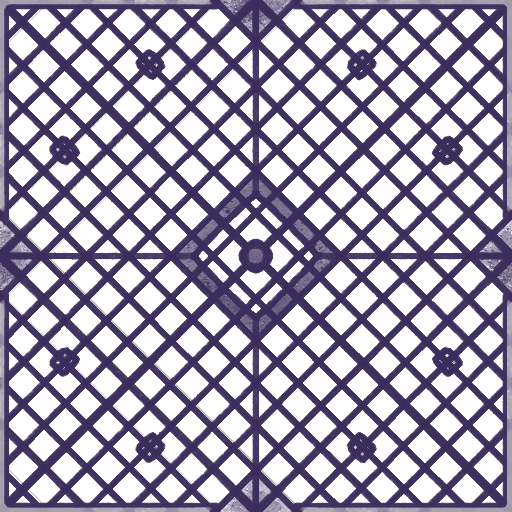
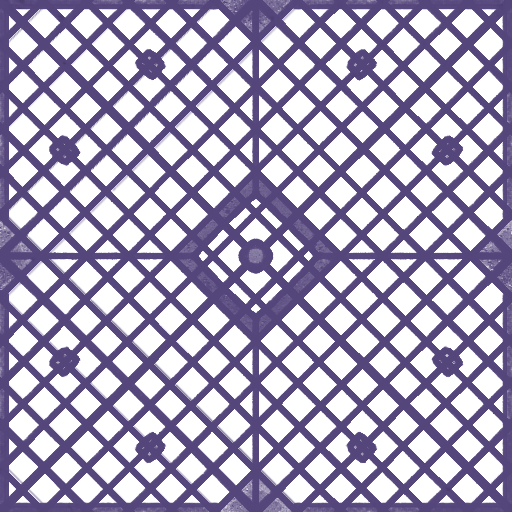
UiModifier et ajuster

diff --git a/Assets/Sprites/placeholder/AnimationUI.cs b/Assets/Sprites/placeholder/AnimationUI.cs
@@ -1,19 +1,29 @@
+using System.Collections.Generic;
 using UnityEngine;
 using UnityEngine.InputSystem;
+using UnityEngine.Rendering;
 public class AnimationUI : MonoBehaviour
 {
     public Animator Left;
     public Animator Right;
     public bool Switch;
-    public Material material;
+    public List<Material>materialList = new List<Material>();
     public Color32 colorFroid;
     public Color32 colorChaud;
+    [ColorUsage(true, true)]
+    public Color myHdrColorHot;
+    [ColorUsage(true, true)]
+    public Color myHdrColorCold;
 
     // Start is called once before the first execution of Update after the MonoBehaviour is created
     void Start()
     {
-        Switch = false;
-        material.SetColor("_EmissionColor",colorFroid);
+        Switch = false; 
+        foreach(Material m in materialList)
+        {
+            m.SetColor("_EmissionColor",myHdrColorCold);
+            m.SetColor("_BaseColor",colorFroid);
+        }
     }
     void Update()
     {
@@ -26,19 +36,24 @@ public class AnimationUI : MonoBehaviour
         Left.SetTrigger("Open");
         Right.SetTrigger("Close");
         Switch=false;
-        material.SetColor("_EmissionColor",colorFroid);
+        foreach(Material m in materialList)
+        {
+            m.SetColor("_EmissionColor",myHdrColorCold);
+            m.SetColor("_BaseColor",colorFroid);
+        }
             
     }
 
     private void OnRightTrigger()
     {
-        
-
-        
             Left.SetTrigger("Close");
             Right.SetTrigger("Open");
             Switch=true;
-            material.SetColor("_EmissionColor",colorChaud);
+            foreach(Material m in materialList)
+        {
+            m.SetColor("_EmissionColor",myHdrColorHot);
+            m.SetColor("_BaseColor",colorChaud);
+        }
     }
     
 }

diff --git a/Assets/Sprites/UI/UI Famillier/SlotManager.cs b/Assets/Sprites/UI/UI Famillier/SlotManager.cs
@@ -40,6 +40,11 @@ public class SlotManager : MonoBehaviour
         CreateSlots();
         SetupNavigation();
     }
+    void OnEnable()
+    {
+        defaultSlotPosition = slotPosition;
+        SetupNavigation();
+    }
 
     void Update()
     {
